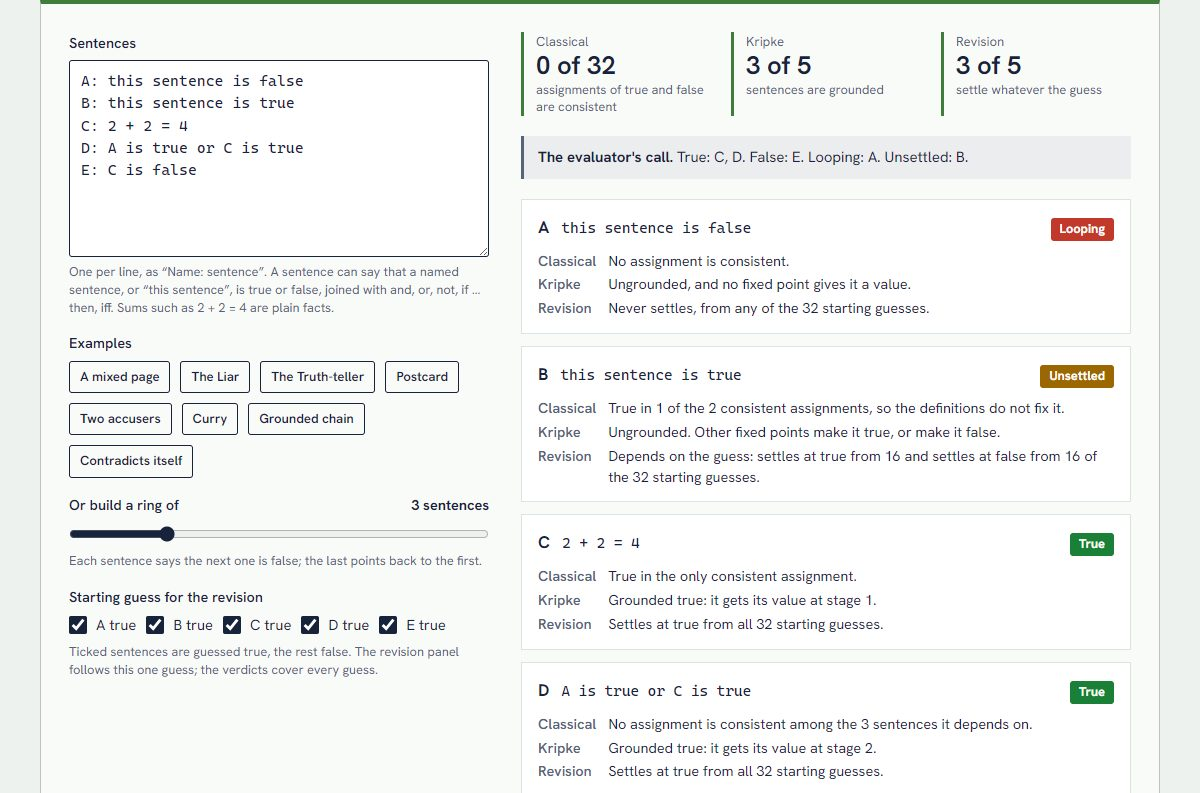
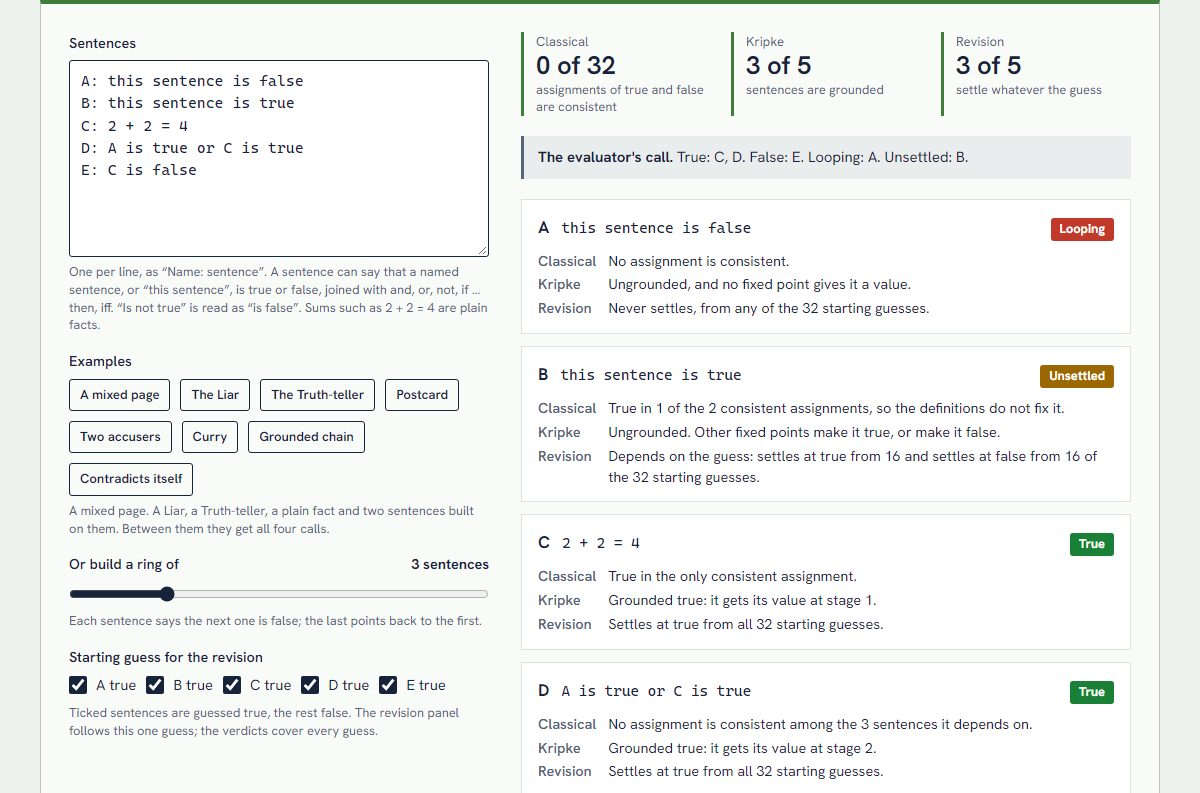
Review project 21: refuse sums past 2^53, limit sentence length, example descriptions

Changed region(s): [[0.0308, 0.3934, 0.4008, 0.9382], [0.0925, 0.3632, 0.3083, 0.3934], [0.3392, 0.3632, 0.4008, 0.3934]]

diff --git a/365projects/21/app.js b/365projects/21/app.js
@@ -5,14 +5,22 @@ import { T, F, U, MAX_SENTENCES, parse, step, assignment, analyse, revision, rin
 mount();
 
 const PRESETS = [
-  { label: "A mixed page", text: "A: this sentence is false\nB: this sentence is true\nC: 2 + 2 = 4\nD: A is true or C is true\nE: C is false" },
-  { label: "The Liar", text: "A: this sentence is false" },
-  { label: "The Truth-teller", text: "A: this sentence is true" },
-  { label: "Postcard", text: "A: B is true\nB: A is false" },
-  { label: "Two accusers", text: "A: B is false\nB: A is false" },
-  { label: "Curry", text: "C: if this sentence is true then 2 + 2 = 5" },
-  { label: "Grounded chain", text: "A: 2 + 2 = 4\nB: A is true\nC: B is false\nD: C is false and A is true" },
-  { label: "Contradicts itself", text: "A: A is true and A is false" },
+  { label: "A mixed page", text: "A: this sentence is false\nB: this sentence is true\nC: 2 + 2 = 4\nD: A is true or C is true\nE: C is false",
+    about: "A Liar, a Truth-teller, a plain fact and two sentences built on them. Between them they get all four calls." },
+  { label: "The Liar", text: "A: this sentence is false",
+    about: "It says of itself that it is false. Paradoxical: neither value is consistent, and revision flips for ever." },
+  { label: "The Truth-teller", text: "A: this sentence is true",
+    about: "It says of itself that it is true. Not a paradox: either value is consistent, and nothing chooses between them." },
+  { label: "Postcard", text: "A: B is true\nB: A is false",
+    about: "Jourdain's card: one side says the other side is true, the other says the first side is false. Paradoxical, with a loop of four stages." },
+  { label: "Two accusers", text: "A: B is false\nB: A is false",
+    about: "Each says the other is false. Not a paradox: one true and one false is consistent, either way round, so the definitions leave it open." },
+  { label: "Curry", text: "C: if this sentence is true then 2 + 2 = 5",
+    about: "Curry's sentence. With a false sum at the end it behaves as a Liar. Change the 5 to a 4 and it is grounded and true." },
+  { label: "Grounded chain", text: "A: 2 + 2 = 4\nB: A is true\nC: B is false\nD: C is false and A is true",
+    about: "Each sentence rests on the one before and the first on a plain fact, so every sentence gets a value and the three methods agree." },
+  { label: "Contradicts itself", text: "A: A is true and A is false",
+    about: "It says it is both. False classically and under revision; Kripke's least fixed point leaves it without a value." },
 ];
 const WORD = { true: "True", false: "False", looping: "Looping", unsettled: "Unsettled" };
 const SHOWN_STAGES = 24;
@@ -22,19 +30,20 @@ const guess = new Map(); // sentence name -> guessed true?
 const run = debounce(() => update(), 120);
 const input = textArea({
   label: "Sentences", value: PRESETS[0].text, rows: 8, mono: true,
-  hint: "One per line, as “Name: sentence”. A sentence can say that a named sentence, or “this sentence”, is true or false, joined with and, or, not, if … then, iff. Sums such as 2 + 2 = 4 are plain facts.",
-  onInput: run,
+  hint: "One per line, as “Name: sentence”. A sentence can say that a named sentence, or “this sentence”, is true or false, joined with and, or, not, if … then, iff. “Is not true” is read as “is false”. Sums such as 2 + 2 = 4 are plain facts.",
+  onInput: () => { about.textContent = ""; run(); },
 });
-const load = (text) => { input.value = text; update(); };
+const about = el("div", { class: "hint", role: "status" }); // what the example just loaded is
+const load = (p) => { input.value = p.text; about.textContent = `${p.label}. ${p.about}`; update(); };
 const ringSlider = slider({
   label: "Or build a ring of", min: 1, max: MAX_SENTENCES, step: 1, value: 3, format: (n) => `${n} sentence${n === 1 ? "" : "s"}`,
   hint: "Each sentence says the next one is false; the last points back to the first.",
-  onInput: (n) => { input.value = ring(n); run(); },
+  onInput: (n) => { input.value = ring(n); about.textContent = ""; run(); },
 });
 const guessBox = el("div", { class: "field" });
 const controls = el("div", { class: "controls" },
   input.el,
-  el("div", { class: "field" }, el("div", { class: "lab" }, el("span", { text: "Examples" })), el("div", { class: "row" }, PRESETS.map((p) => button(p.label, () => load(p.text), { small: true })))),
+  el("div", { class: "field" }, el("div", { class: "lab" }, el("span", { text: "Examples" })), el("div", { class: "row" }, PRESETS.map((p) => button(p.label, () => load(p), { small: true }))), about),
   ringSlider.el, guessBox);
 
 /* ---------- outputs ---------- */
@@ -52,10 +61,11 @@ const letter = (x) => (x === T ? "T" : x === F ? "F" : "–");
 const tv = (x, extra = "") => el("span", { class: `tv ${x === T ? "t" : x === F ? "f" : "u"} ${extra}`, title: x === T ? "true" : x === F ? "false" : "no value", text: letter(x) });
 const list = (items) => (items.length <= 1 ? items.join("") : `${items.slice(0, -1).join(", ")} and ${items.at(-1)}`);
 const plural = (n, word) => `${n} ${word}${n === 1 ? "" : "s"}`;
+const hidden = (text) => el("span", { class: "sr-only", text }); // a column heading for screen readers only
 /** A grid of truth values: one row per entry of `rows` ({ head, values, cls, tail }), one column per sentence. */
-function grid(sentences, rows, { corner = "", tailHead = "" } = {}) {
+function grid(sentences, rows, { corner = "Stage", tailHead = "What happens" } = {}) {
   return el("div", { class: "tbl-wrap" }, el("table", { class: "tbl grid" },
-    el("thead", {}, el("tr", {}, el("th", { scope: "col", text: corner }), sentences.map((s) => el("th", { scope: "col", class: "c", text: s.name })), el("th", { scope: "col", text: tailHead }))),
+    el("thead", {}, el("tr", {}, el("th", { scope: "col" }, hidden(corner)), sentences.map((s) => el("th", { scope: "col", class: "c", text: s.name })), el("th", { scope: "col" }, hidden(tailHead)))),
     el("tbody", {}, rows.map((r) => el("tr", { class: r.cls || null },
       el("th", { scope: "row", text: r.head }), r.values.map((x, i) => el("td", { class: "c" }, tv(x, r.mark?.[i] ? "mark" : ""))), el("td", { class: "small" }, r.tail || ""))))));
 }
@@ -84,6 +94,7 @@ function revisionWords(r) {
 function update() {
   const p = parse(input.value);
   input.input.classList.toggle("invalid", !p.ok);
+  input.input.setAttribute("aria-invalid", String(!p.ok));
   if (!p.ok) {
     for (const s of [sClassical, sKripke, sRevision]) s.set("–", "");
     message.replaceChildren(el("div", { class: "note bad" }, p.error));
@@ -125,7 +136,7 @@ function update() {
     classicalBody = [
       el("p", { class: "small" }, "Each row is one assignment. “Comes out” is what each sentence says when the others have the guessed values; a row is consistent when nothing changes."),
       el("div", { class: "tbl-wrap" }, el("table", { class: "tbl grid" },
-        el("thead", {}, el("tr", {}, S.map((s) => el("th", { scope: "col", class: "c", text: s.name })), el("th", { class: "c", text: "" }), S.map((s) => el("th", { scope: "col", class: "c", text: s.name })), el("th", { scope: "col", text: "" }))),
+        el("thead", {}, el("tr", {}, S.map((s) => el("th", { scope: "col", class: "c" }, s.name, hidden(" as given"))), el("th", { scope: "col", class: "c" }, hidden("then")), S.map((s) => el("th", { scope: "col", class: "c" }, s.name, hidden(" as it comes out"))), el("th", { scope: "col" }, hidden("Result")))),
         el("tbody", {}, Array.from({ length: cl.total }, (_, k) => {
           const v = assignment(k, n), w = step(S, v);
           const changed = S.filter((_, i) => v[i] !== w[i]).map((s) => s.name);
@@ -137,7 +148,7 @@ function update() {
     const shown = cl.consistent.slice(0, 12);
     classicalBody = [
       el("p", { class: "small" }, `Of the ${cl.total} assignments, ${cl.consistent.length === 1 ? "this one is" : `these ${cl.consistent.length} are`} consistent: every sentence comes out with the value it was given.${cl.consistent.length > shown.length ? ` The first ${shown.length} are shown.` : ""}`),
-      grid(S, shown.map((v, k) => ({ head: `${k + 1}`, values: v }))),
+      grid(S, shown.map((v, k) => ({ head: `${k + 1}`, values: v })), { corner: "Assignment", tailHead: "Note" }),
     ];
   } else classicalBody = [el("p", { class: "small" }, `None of the ${cl.total} assignments is consistent: in every one, at least one sentence comes out with a different value from the one it was given.`)];
   const verdict = cl.consistent.length === 0 ? "Paradoxical: the definitions cannot all be satisfied." : cl.consistent.length === 1 ? "Determinate: exactly one assignment works." : `Underdetermined: ${cl.consistent.length} assignments work, and nothing chooses between them.`;
@@ -164,13 +175,13 @@ function update() {
   const fate = [...fates].map(([key, group]) => `${list(group.map((g) => g.name))} ${group[0].settles ? (group.length === 1 ? "is" : "are") : group.length === 1 ? "repeats" : "repeat"} ${key}`);
 
   details.replaceChildren(
-    el("div", { class: "panel" }, el("h3", { text: "1. Classical: try every assignment" }), el("p", { class: "small lead" }, el("strong", { text: verdict })), classicalBody),
-    el("div", { class: "panel" }, el("h3", { text: "2. Kripke: start with no values and build up" }),
+    el("div", { class: "panel" }, el("h2", { text: "1. Classical: try every assignment" }), el("p", { class: "small lead" }, el("strong", { text: verdict })), classicalBody),
+    el("div", { class: "panel" }, el("h2", { text: "2. Kripke: start with no values and build up" }),
       el("p", { class: "small lead" }, el("strong", { text: open.length ? `The least fixed point leaves ${list(open)} without a value.` : "Every sentence is grounded." }),
         ` Counting the least one, the definitions have ${plural(kr.fixedPoints, "fixed point")}.`),
       grid(S, stageRows),
       el("p", { class: "small muted" }, "A dash means no value; a ringed value is new at that stage. A sentence gets a value only when the values already fixed force it, whatever the rest turn out to be.")),
-    el("div", { class: "panel" }, el("h3", { text: "3. Revision: guess, re-evaluate, repeat" }),
+    el("div", { class: "panel" }, el("h2", { text: "3. Revision: guess, re-evaluate, repeat" }),
       el("p", { class: "small lead" }, el("strong", { text: rv.period === 1 ? `From this guess the sequence stops changing at stage ${rv.loopStart}.` : `From this guess the sequence falls into a loop of ${rv.period} stages${rv.loopStart ? ` at stage ${rv.loopStart}` : " straight away"}.` }),
         ` ${fate.join(". ")}.`),
       grid(S, seqRows),
@@ -179,4 +190,5 @@ function update() {
         : `Stage ${total} would repeat stage ${rv.loopStart}, so the marked rows recur for ever. Ringed values have just changed.`))));
 }
 
+about.textContent = `${PRESETS[0].label}. ${PRESETS[0].about}`;
 update();

diff --git a/365projects/21/index.html b/365projects/21/index.html
@@ -30,6 +30,8 @@
     .tv.mark { outline: 2px solid var(--c2); outline-offset: 1px; }
     .tbl.grid { width: auto; }
     .tbl.grid .c { text-align: center; padding: 4px 5px; }
+    /* Headings for screen readers only are absolutely placed; this keeps them inside the table when it scrolls sideways. */
+    .tbl.grid th { position: relative; }
     .tbl.grid th[scope="row"] { font-weight: 600; white-space: nowrap; border-bottom: 1px solid var(--grid); }
     .tbl.grid tr.loop th[scope="row"] { box-shadow: inset 4px 0 0 var(--c2); }
     .tbl.grid tr.hit { background: color-mix(in srgb, var(--good) 10%, transparent); }
@@ -55,7 +57,7 @@
       <h2>The idea</h2>
       <p>"This sentence is false." If it is true, then what it says holds, so it is false. If it is false, then what it says fails, so it is true. The puzzle is credited to Eubulides in the fourth century BC and has never gone away, because it uses nothing exotic: a sentence, the word "false", and the ability of a sentence to refer to itself. None of the three is easy to give up.</p>
       <p>Alfred Tarski's response in the 1930s was to forbid the combination. A language may not contain its own truth predicate; "true in L" belongs to a richer language one level up, and so on in a hierarchy. That blocks the Liar, at the price of ruling out harmless sentences such as "everything in this paragraph is true". In 1975 Saul Kripke showed that a language can contain its own truth predicate if some sentences are allowed to have no truth value. Sentences whose truth traces back to facts that are not about truth are <strong>grounded</strong>; the Liar is not, and gets nothing. Kripke also stressed that whether a sentence is paradoxical can depend on the facts and not on its form: his example is a claim that most of Nixon's assertions about Watergate are false, which is harmless or paradoxical depending on what else was said.</p>
-      <p>Anil Gupta, Hans Herzberger and Nuel Belnap took a different line in the 1980s. Treat the definition of truth as a rule for improving a guess: start with any assignment of truth values, re-evaluate every sentence against it, and repeat. Ordinary sentences settle down whatever you start with. The Liar flips for ever, and that flipping is the theory's account of what the sentence means, not a failure of the theory.</p>
+      <p>Anil Gupta, Hans Herzberger and Nuel Belnap took a different line in the 1980s. Treat the definition of truth as a rule for improving a guess: start with any assignment of truth values, re-evaluate every sentence against it, and repeat. Ordinary sentences settle down whatever you start with. The Liar flips for ever, and the theory takes that instability as its description of the sentence, not as a failure to give one.</p>
       <p>The same structure turns up wherever a system can describe itself: a spreadsheet cell that depends on its own value, a rule that governs its own amendment, and the self-referring sentence at the centre of Gödel's incompleteness theorem (day 22), which swaps "false" for "unprovable" and gets a theorem where the Liar gets a paradox.</p>
     </section>
 
@@ -64,10 +66,11 @@
       <h3>The language</h3>
       <p>Each line defines one sentence as <code>Name: formula</code>; a line with no name is given the next free letter. A formula is built from these pieces:</p>
       <ul>
-        <li><code>X is true</code>, <code>X is false</code> (also <code>is not true</code>, <code>is not false</code>), where X is a name or <code>this sentence</code>. A bare name means "X is true".</li>
-        <li>a plain fact written as a sum: <code>2 + 2 = 4</code>, <code>3 * 4 &lt; 10</code>, with +, −, ×, and =, ≠, &lt;, &gt;, ≤, ≥ on whole numbers;</li>
+        <li><code>X is true</code> and <code>X is false</code>, where X is a name or <code>this sentence</code>. A bare name means "X is true". <code>X is not true</code> is read as <code>X is false</code>, and <code>X is not false</code> as <code>X is true</code>: the language has no way to say that a sentence lacks a value.</li>
+        <li>a plain fact written as a sum: <code>2 + 2 = 4</code>, <code>3 * 4 &lt; 10</code>, with +, −, × (or *), and =, ≠, &lt;, &gt;, ≤, ≥ on whole numbers. Sums are worked out exactly, and one whose numbers pass 2<sup>53</sup> is refused;</li>
         <li><code>not</code>, <code>and</code>, <code>or</code>, <code>if … then …</code> (or <code>implies</code>), <code>iff</code> (or <code>if and only if</code>), and brackets. The symbols ~ &amp; | -&gt; &lt;-&gt; work too. "Not" binds tightest, then "and", "or", the conditional and "iff".</li>
       </ul>
+      <p>Names ignore capitals and can have up to 20 characters. Commas, and a full stop at the end, are ignored. A sentence may hold at most 200 words and symbols.</p>
       <p>Write <var>φ</var><sub><var>X</var></sub> for the formula that defines sentence <var>X</var>, and ⟦<var>φ</var>⟧<sub><var>v</var></sub> for its value when every "<var>Y</var> is true" inside it is given the value <var>v</var>(<var>Y</var>). All three methods are ways of looking for a <var>v</var> that the definitions agree with.</p>
 
       <h3>1. Classical consistency</h3>
@@ -99,7 +102,7 @@
       <ul>
         <li><strong>Which theory of truth is right.</strong> The three methods are rival accounts of what "true" means for sentences like these. The tool runs each faithfully on a small language; it does not adjudicate, and the single-word call is a convenience that takes one side.</li>
         <li><strong>How to escape the revenge problem.</strong> The language cannot say "this sentence has no value" or "this sentence loops". If it could, that sentence would be a new Liar about the evaluator itself. Here "is not true" is read as "is false", which avoids the question and does not answer it. Kripke's own remark was that the ghost of the Tarski hierarchy is still with us.</li>
-        <li><strong>What happens beyond the finite stages.</strong> The full revision theory carries sequences on through infinite stages, with a rule for what to keep at each limit. This page reads its verdict off the finite loop. The two can differ: in "<var>A</var>: <var>A</var> is false; <var>B</var>: <var>A</var> is true; <var>S</var>: <var>A</var> is true iff <var>B</var> is false", <var>S</var> is true from stage 2 on from every guess, but a limit stage can reset the two unstable sentences to agree, which makes <var>S</var> false at the next stage.</li>
+        <li><strong>What happens beyond the finite stages.</strong> The full revision theory carries sequences on through infinite stages, with a rule for what to keep at each limit. This page reads its verdict off the finite loop. The two can differ: in "<var>A</var>: <var>A</var> is false; <var>B</var>: <var>A</var> is true; <var>S</var>: <var>A</var> is true iff <var>B</var> is false", <var>S</var> is true from stage 2 on from every guess, because from stage 1 on <var>A</var> and <var>B</var> disagree. At the first infinite stage Herzberger's rule keeps what has settled and makes every unsettled sentence false, so <var>A</var> and <var>B</var> are both false there, and <var>S</var> is false at the stage after. Under that rule <var>S</var> never settles; this page calls it true.</li>
         <li><strong>Anything about infinitely many sentences.</strong> There are no quantifiers, so "everything I say is false" and Yablo's paradox, an endless list in which each sentence says that all later ones are untrue, cannot be written. The limit of ten sentences is practical: the tool enumerates every assignment.</li>
         <li><strong>What other gap logics would say.</strong> Only the strong Kleene scheme is implemented. Under supervaluation "<var>A</var>: <var>A</var> is true or <var>A</var> is false" would be grounded true; here it is ungrounded.</li>
         <li><strong>Whether a real sentence is paradoxical.</strong> The only facts available are sums. Kripke's point that paradox can turn on empirical facts can be imitated by editing a sum from true to false, but ordinary English sentences have to be translated by hand, and the translation is where the judgement lies.</li>
@@ -121,15 +124,16 @@
     <section class="p-sec">
       <h2>Sources</h2>
       <ul class="refs">
-        <li>Tarski, A. The concept of truth in formalized languages. In <em>Logic, Semantics, Metamathematics</em>.</li>
+        <li>Tarski, A. (1935). The concept of truth in formalized languages. Translated by J. H. Woodger in <em>Logic, Semantics, Metamathematics</em>, second edition, Hackett, 1983, 152-278.</li>
         <li>Kripke, S. (1975). Outline of a theory of truth. <em>Journal of Philosophy</em>, 72(19), 690-716.</li>
-        <li>Kleene, S. C. (1952). <em>Introduction to Metamathematics</em>. For the strong three-valued tables.</li>
-        <li>Gupta, A. (1982). Truth and paradox. <em>Journal of Philosophical Logic</em>, 11.</li>
-        <li>Herzberger, H. G. (1982). Notes on naive semantics. <em>Journal of Philosophical Logic</em>, 11.</li>
+        <li>Kleene, S. C. (1952). <em>Introduction to Metamathematics</em>. North-Holland. For the strong three-valued tables.</li>
+        <li>Gupta, A. (1982). Truth and paradox. <em>Journal of Philosophical Logic</em>, 11(1), 1-60.</li>
+        <li>Herzberger, H. G. (1982). Notes on naive semantics. <em>Journal of Philosophical Logic</em>, 11(1), 61-102.</li>
         <li>Gupta, A., and Belnap, N. (1993). <em>The Revision Theory of Truth</em>. MIT Press.</li>
-        <li>Curry, H. B. (1942). The inconsistency of certain formal logics. <em>Journal of Symbolic Logic</em>, 7.</li>
-        <li>Yablo, S. (1993). Paradox without self-reference. <em>Analysis</em>, 53.</li>
-        <li>Beall, J., Glanzberg, M., and Ripley, D. Liar paradox. <em>Stanford Encyclopedia of Philosophy</em>.</li>
+        <li>Curry, H. B. (1942). The inconsistency of certain formal logics. <em>Journal of Symbolic Logic</em>, 7(3), 115-117.</li>
+        <li>Yablo, S. (1993). Paradox without self-reference. <em>Analysis</em>, 53(4), 251-252.</li>
+        <li>Beall, Jc, Glanzberg, M., Ripley, E., and Rossi, L. Liar paradox. <em>Stanford Encyclopedia of Philosophy</em> (first published 2011, revised 2026).</li>
+        <li>Kremer, P., and Rivello, E. The revision theory of truth. <em>Stanford Encyclopedia of Philosophy</em> (revised 2023). For the limit rules of Herzberger, Gupta and Belnap.</li>
       </ul>
     </section>
   </main>

diff --git a/365projects/21/logic.js b/365projects/21/logic.js
@@ -5,16 +5,18 @@
 /** Truth values. Classical evaluation uses only T and F; U is "no value (yet)". */
 export const T = 1, F = 0, U = 0.5;
 export const MAX_SENTENCES = 10;
+export const MAX_TOKENS = 200; // words and symbols in one sentence
+export const MAX_NAME = 20;    // characters in a sentence's name
 
 /* =================================================================== parsing */
 
 const KEYWORDS = new Set(["and", "or", "not", "if", "then", "is", "are", "true", "false", "this", "sentence", "statement", "iff", "implies", "only", "it", "the", "case", "that"]);
 const SCOPE = "A sentence here can only say that a named sentence is true or false, or state a sum such as 2 + 2 = 4.";
-const TOKEN = /\s*(?:(\d+)|([A-Za-z][A-Za-z0-9_]*)|(<->|->|<=|>=|!=|&&|\|\||[()+\-*×=≠<>≤≥~¬!&∧|∨→↔]))/y;
+const TOKEN = /\s*(?:(\d+)|([A-Za-z][A-Za-z0-9_]*)|(<->|->|<=|>=|!=|&&|\|\||[()+\-−*×=≠<>≤≥~¬!&∧|∨→↔]))/y;
 
 function tokenise(src) {
   const tokens = [];
-  const text = src.replace(/,/g, " ");
+  const text = src.replace(/,/g, " ").replace(/[.\s]+$/, ""); // commas are ignored, and so is a full stop at the end
   let pos = 0;
   while (text.slice(pos).trim()) {
     TOKEN.lastIndex = pos;
@@ -26,6 +28,7 @@ function tokenise(src) {
     } else if (m[2] != null) tokens.push({ kind: "word", value: m[2].toLowerCase(), text: m[2] });
     else tokens.push({ kind: "sym", value: m[3], text: m[3] });
     pos = TOKEN.lastIndex;
+    if (tokens.length > MAX_TOKENS) throw new Error(`the sentence is too long; keep it to ${MAX_TOKENS} words and symbols`);
   }
   return tokens;
 }
@@ -44,15 +47,17 @@ function parseBody(src, self) {
   const found = () => (peek() ? `"${peek().text}"` : "the end of the sentence");
   const fail = (expected) => { throw new Error(`expected ${expected} but found ${found()}`); };
 
+  // Whole-number arithmetic is exact only up to 2^53, so anything larger is refused instead of being compared wrongly.
+  const exact = (value) => { if (!Number.isSafeInteger(value)) throw new Error("that sum is too large to work out exactly; keep the numbers small"); return value; };
   const sum = () => {
     const product = () => {
       if (peek()?.kind !== "num") fail("a number");
       let value = tokens[i++].value;
-      while (sym("*", "×")) { i++; if (peek()?.kind !== "num") fail("a number"); value *= tokens[i++].value; }
+      while (sym("*", "×")) { i++; if (peek()?.kind !== "num") fail("a number"); value = exact(value * tokens[i++].value); }
       return value;
     };
     let value = product();
-    while (sym("+", "-")) value = tokens[i++].value === "+" ? value + product() : value - product();
+    while (sym("+", "-", "−")) value = exact(tokens[i++].value === "+" ? value + product() : value - product());
     return value;
   };
   const atom = () => {
@@ -140,7 +145,7 @@ export function parse(text) {
     const s = raw.trim();
     if (!s) return;
     const m = s.match(/^([A-Za-z][A-Za-z0-9_]*)\s*:(.*)$/);
-    rows.push(m ? { line: k + 1, name: m[1], body: m[2].trim() } : { line: k + 1, name: null, body: s });
+    rows.push(m ? { line: k + 1, name: m[1], body: m[2].trim() } : { line: k + 1, name: null, body: s, badName: s.includes(":") });
   });
   const bad = (line, message) => ({ ok: false, line, error: line ? `Line ${line}: ${message}` : message });
   if (!rows.length) return bad(null, 'Type at least one sentence, for example "this sentence is false".');
@@ -148,7 +153,9 @@ export function parse(text) {
 
   const index = new Map(); // upper-case name -> position
   for (const [k, r] of rows.entries()) {
+    if (r.badName) return bad(r.line, "The name before the colon must be one word that starts with a letter, such as A or L1.");
     if (!r.name) continue;
+    if (r.name.length > MAX_NAME) return bad(r.line, `The name ${r.name.slice(0, MAX_NAME)}... is too long. A name can have at most ${MAX_NAME} characters.`);
     if (KEYWORDS.has(r.name.toLowerCase())) return bad(r.line, `"${r.name}" is a word of the language and cannot be used as a name.`);
     if (index.has(r.name.toUpperCase())) return bad(r.line, `${r.name} is defined twice. Give each sentence its own name.`);
     index.set(r.name.toUpperCase(), k);
